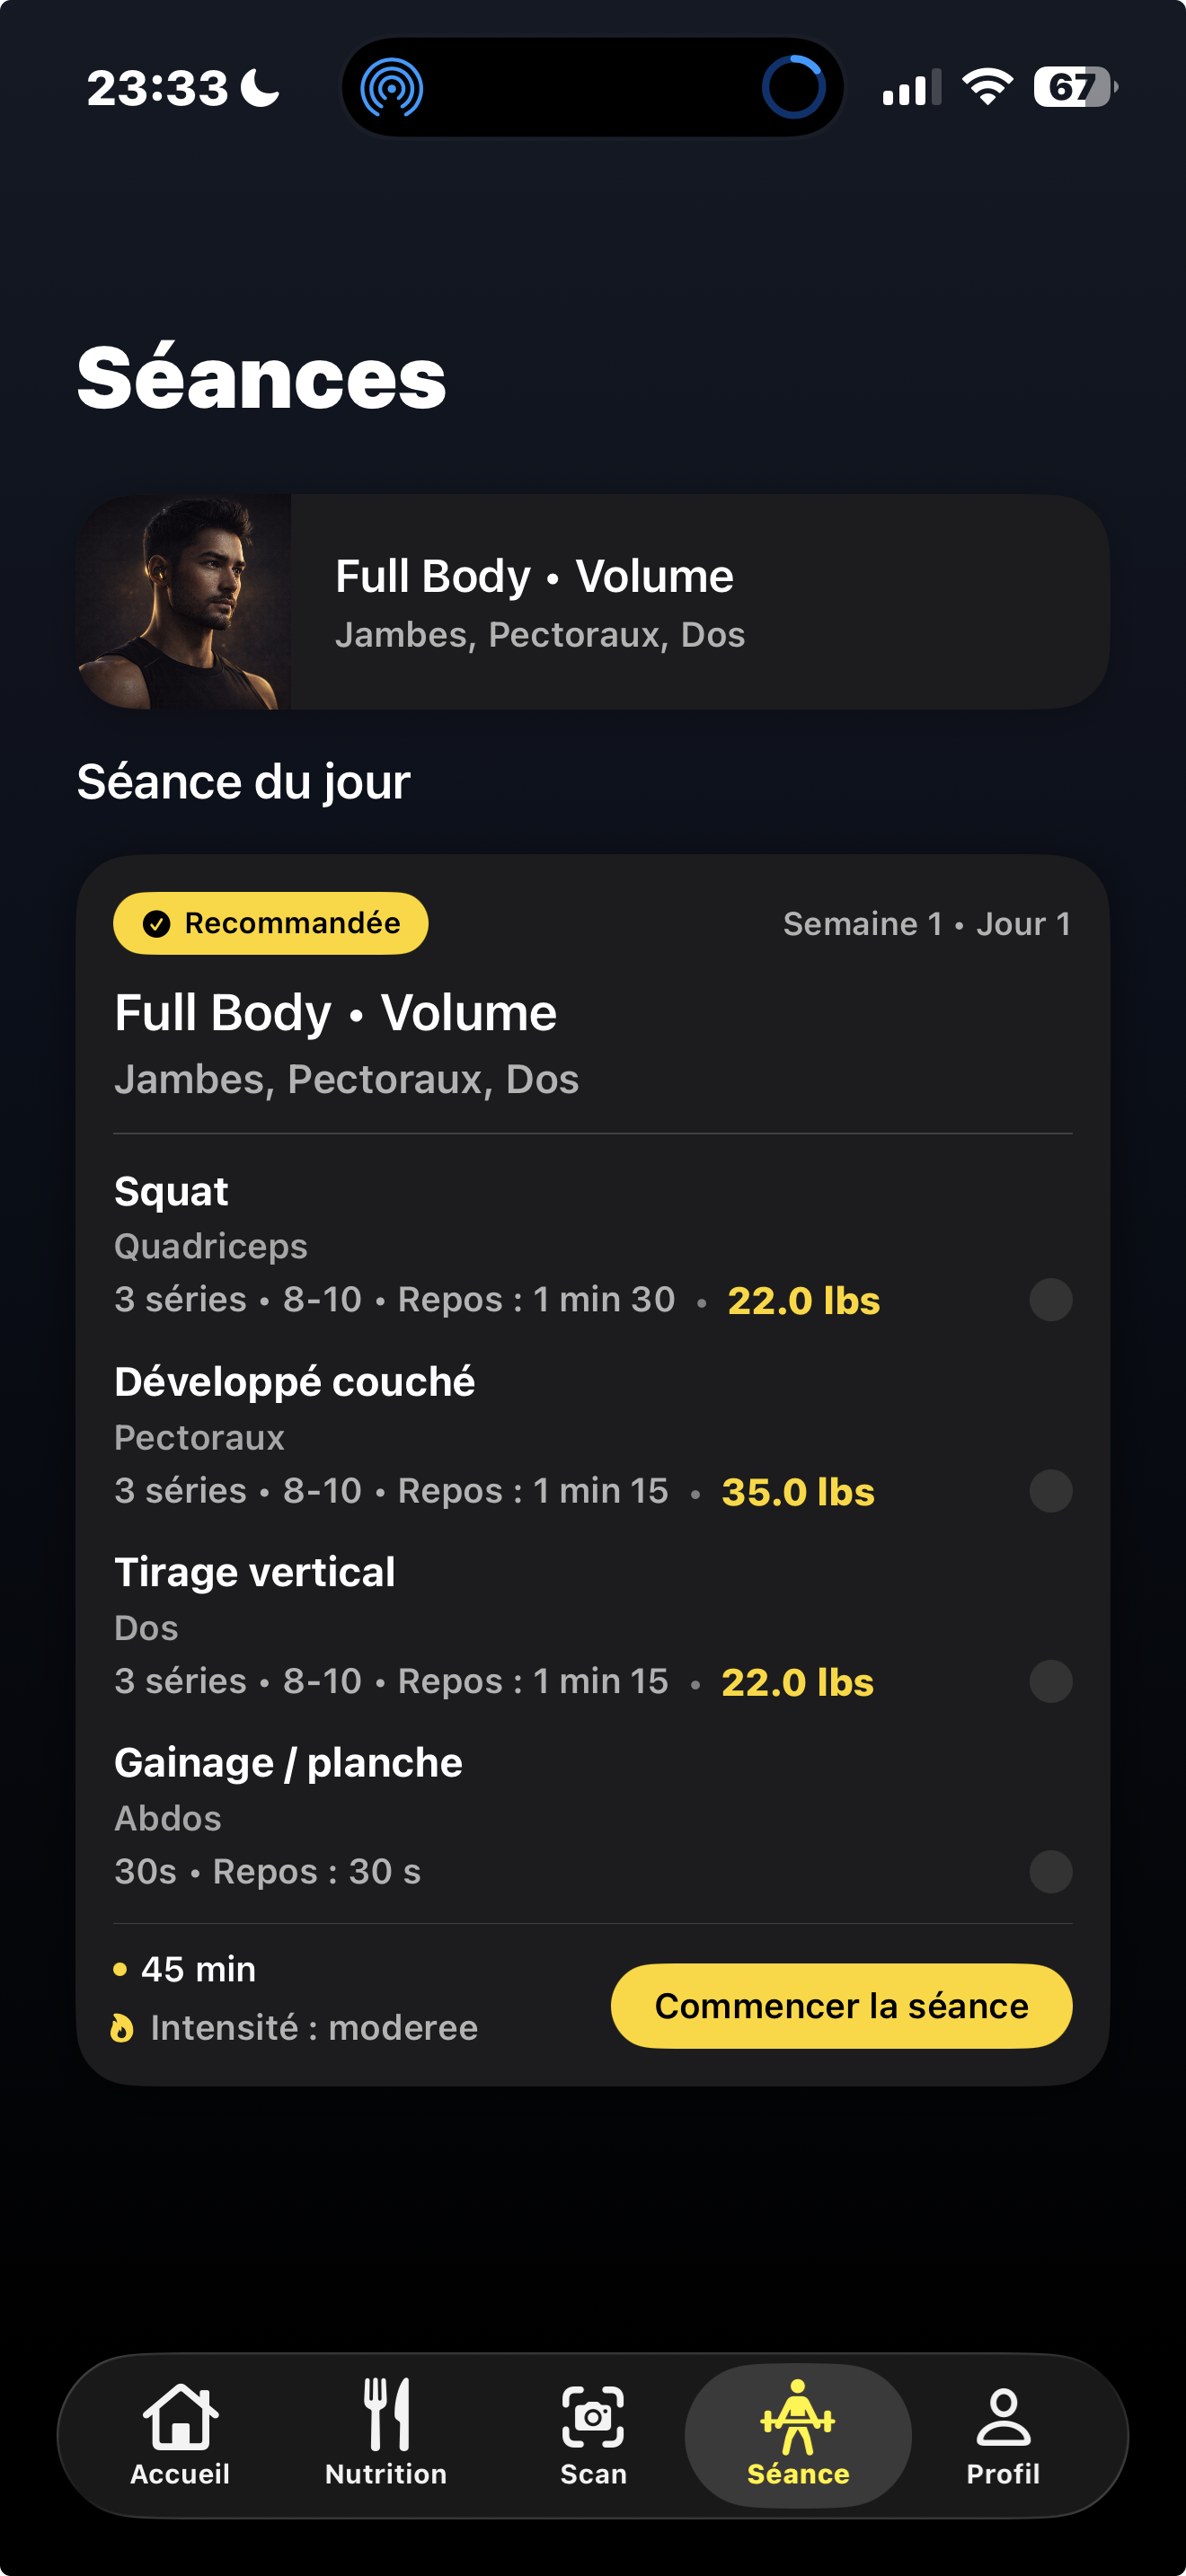
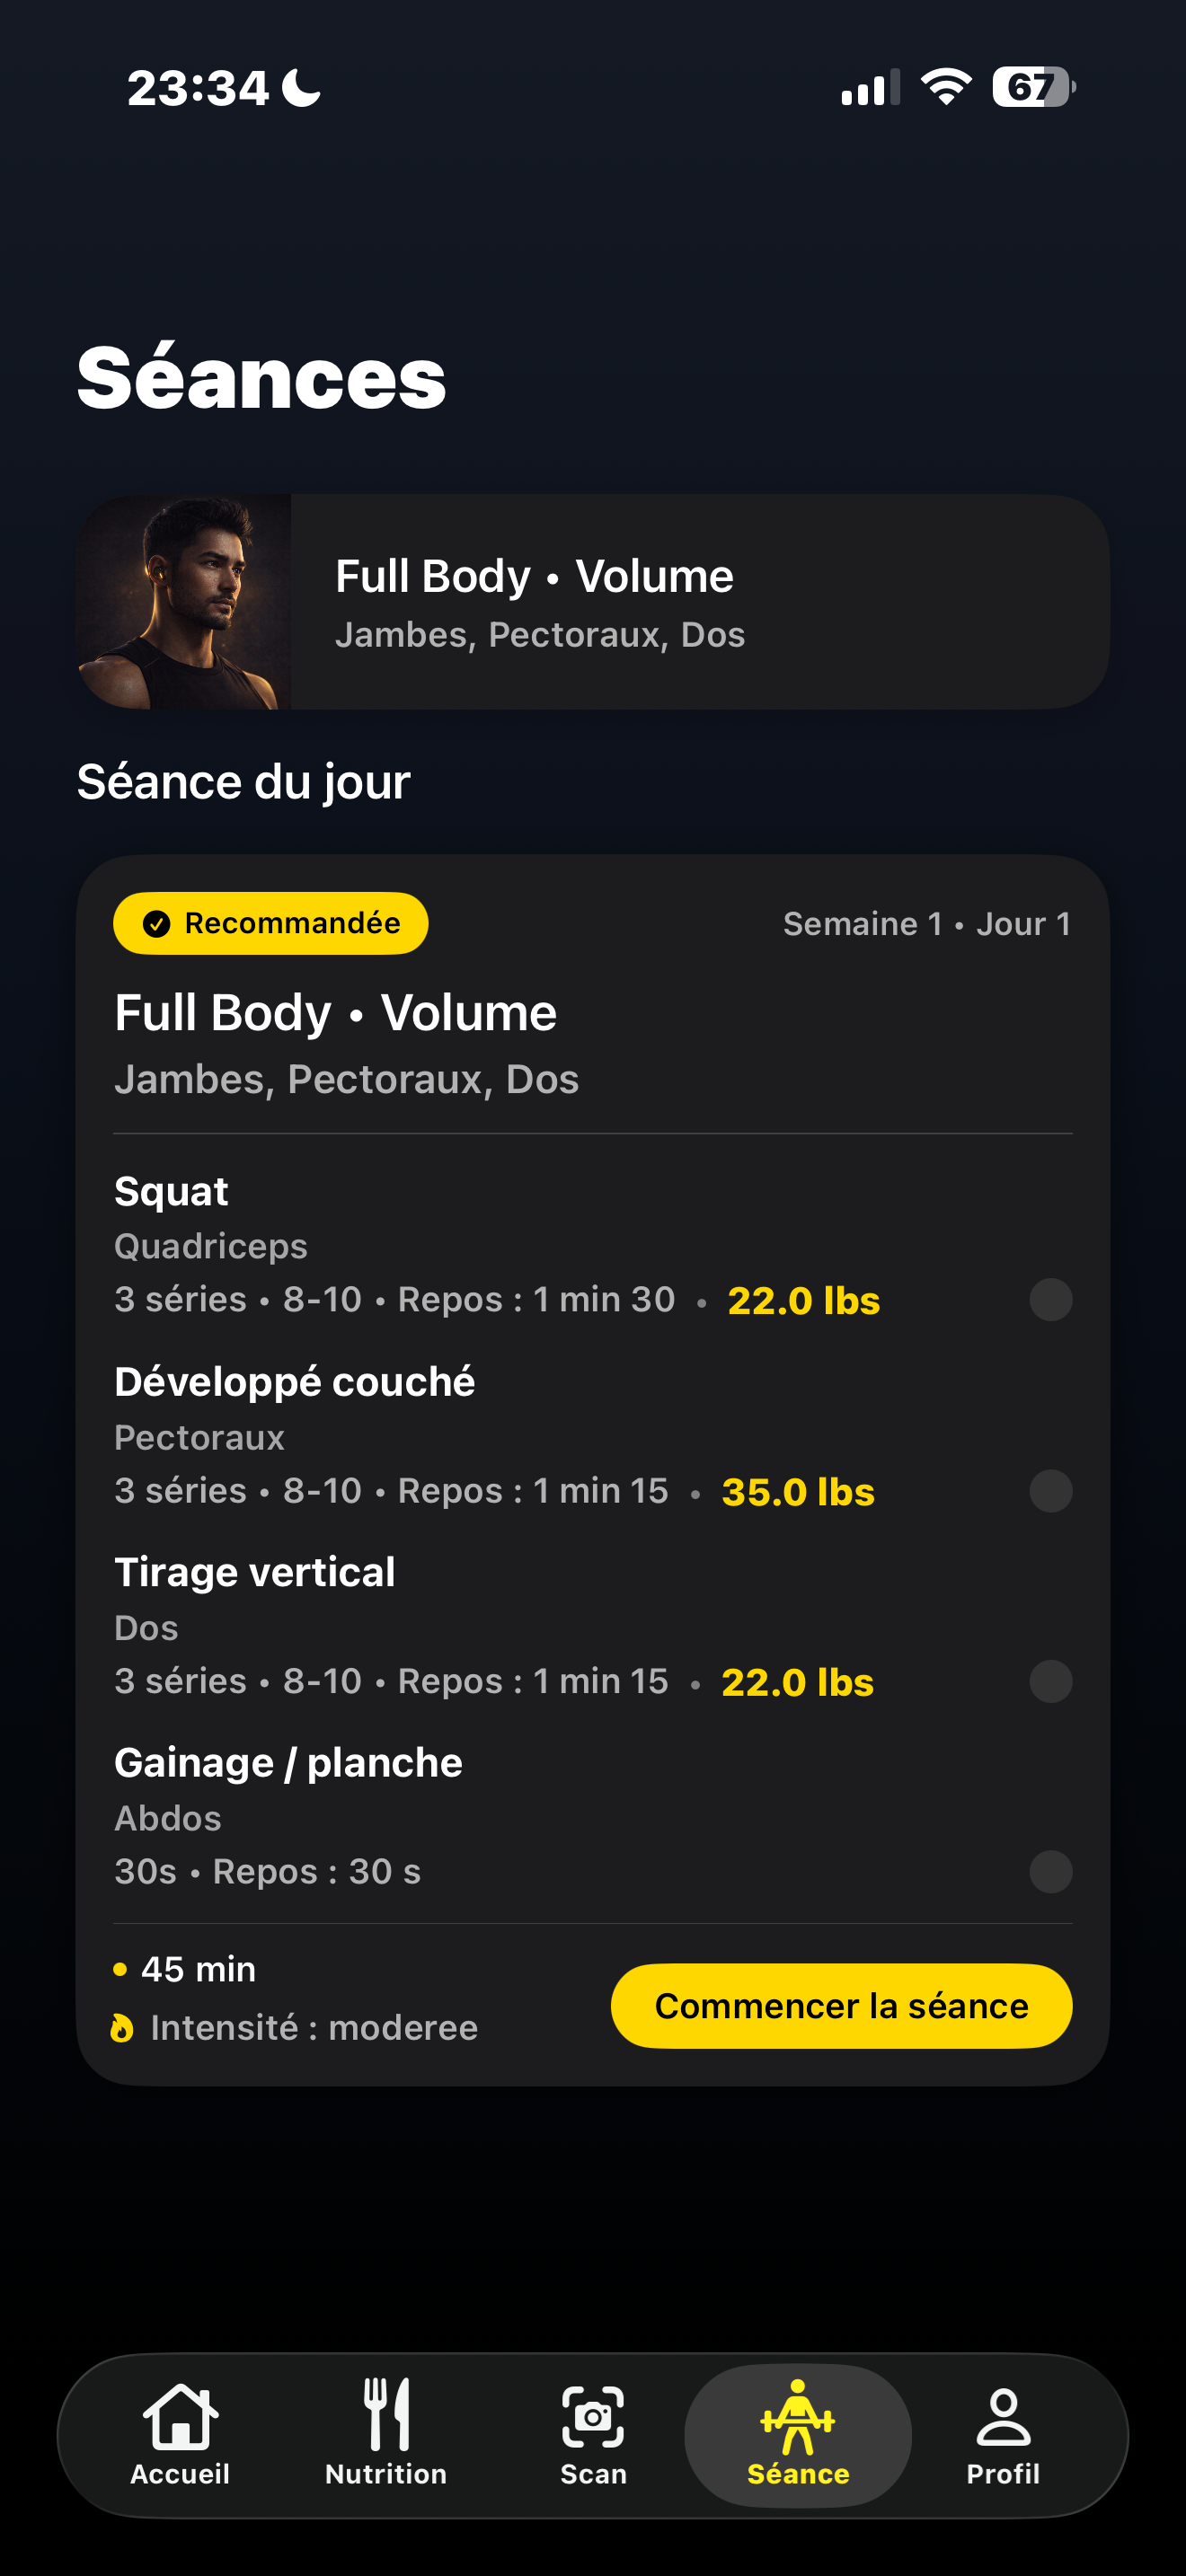
Replace slide 1 with new NoraX dashboard screenshot

diff --git a/index.html b/index.html
@@ -143,7 +143,7 @@
             <div class="phone-mockup-sticky fade-in-up">
                 <div class="phone-mockup-wrapper">
                     <div class="phone-screen">
-                        <img id="storyImage" src="IMG_0492.PNG?v=1782769213" alt="Story" style="width:100%;height:100%;object-fit:cover;position:absolute;top:0;left:0;z-index:1;" loading="lazy">
+                        <img id="storyImage" src="IMG_0492.PNG?v=1782769631" alt="Story" style="width:100%;height:100%;object-fit:cover;position:absolute;top:0;left:0;z-index:1;" loading="lazy">
                         <div class="phone-screen-overlay"></div>
 
                     </div>